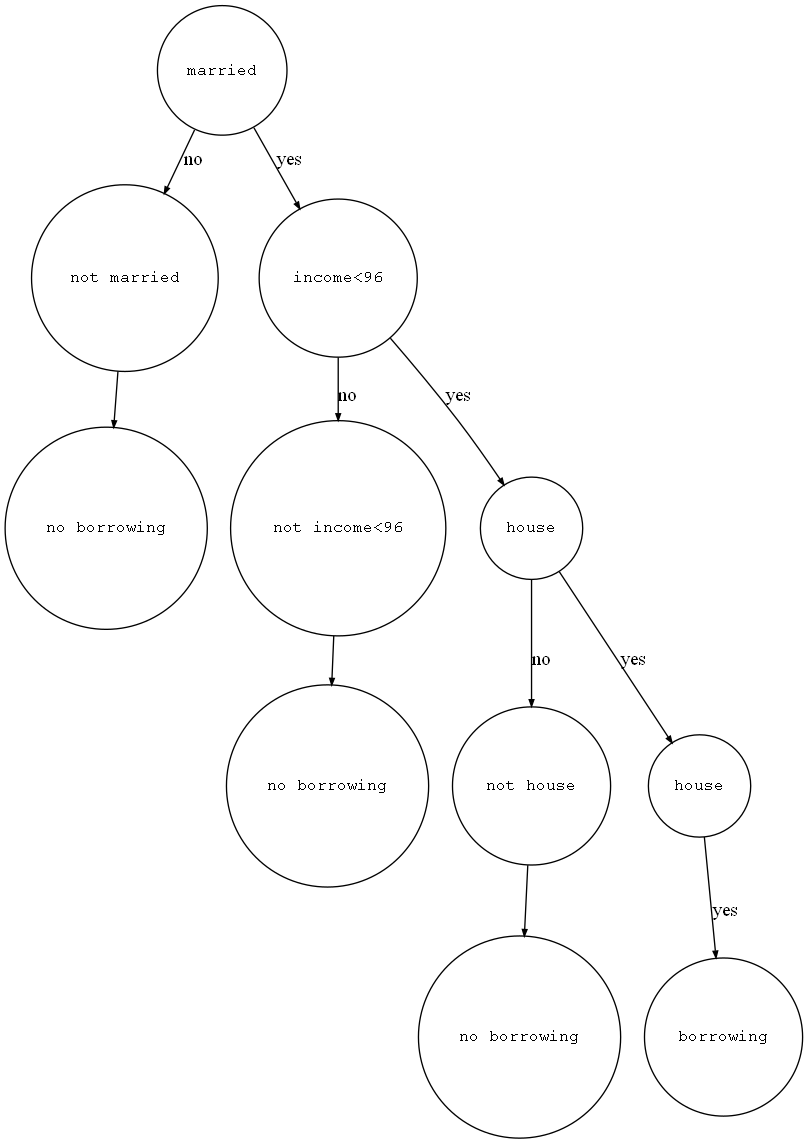
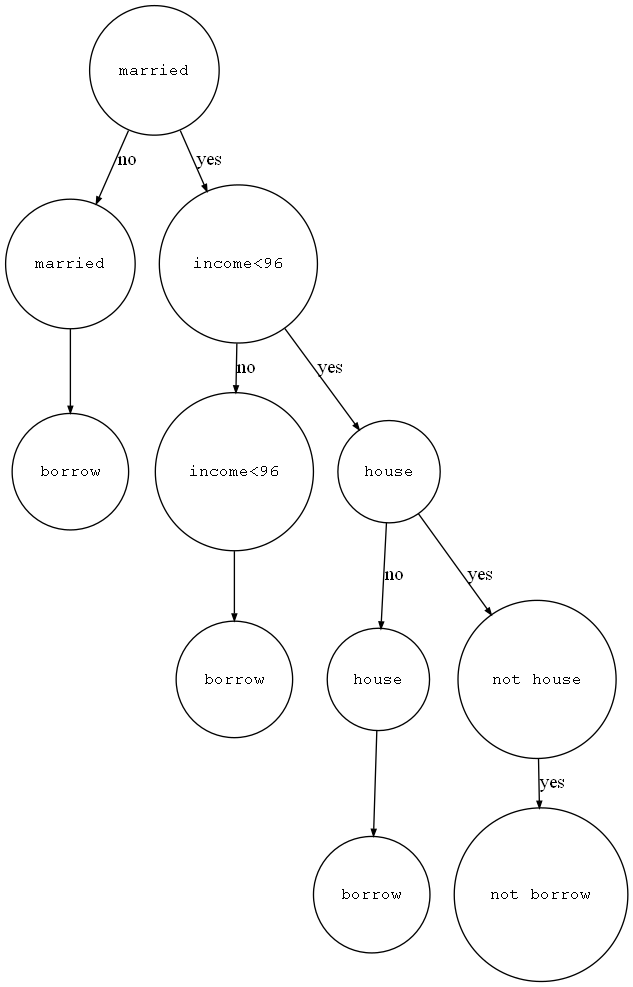
add: descriptions in readme for homework1 and fix a bug from picture

diff --git a/homework-1/draw.py b/homework-1/draw.py
@@ -47,18 +47,18 @@ def build_tree(data,indexes):
             keys[index]+=f'<{income_shreshold}'
         
         dot_body+=f"  node{node_id} [label=\"{keys[index]}\"]\n"
-        dot_body+=f"  node{node_id+1} [label=\"not {keys[index]}\"]\n"
-        dot_body+=f"  node{node_id+3} [label=\"{keys[index]}\"]\n"
+        dot_body+=f"  node{node_id+1} [label=\"{keys[index]}\"]\n"
+        dot_body+=f"  node{node_id+3} [label=\"not {keys[index]}\"]\n"
         dot_body+=f"  node{node_id} -> node{node_id+1} [label= \"no\"]\n"
         dot_body+=f"  node{node_id} -> node{node_id+3} [label= \"yes\"]\n"
-        dot_body+=f"  node{node_id+2} [label=\"no borrowing\"]\n"
+        dot_body+=f"  node{node_id+2} [label=\"borrow\"]\n"
         dot_body+=f'  node{node_id+1} -> node{node_id+2} \n'
     
         node_id+=3
         values.remove(min_value)
         keys.remove(keys[index])
         
-    dot_body+=f' node{node_id+1} [label="borrowing"]\n'
+    dot_body+=f' node{node_id+1} [label="not borrow"]\n'
     dot_body+=f' node{node_id} -> node{node_id+1} [label= "yes"]\n'
     return [dot_body]
 

diff --git a/homework-1/main.py b/homework-1/main.py
@@ -140,6 +140,7 @@ def income_index(args,data,label,id=2):
             if entropy_index(result,label) < min_index:
                 min_index = entropy_index(result,label)
                 finial_income = income
+        #print(income,min_index)
     # print(finial_income)
     # print(min_index)
     return [finial_income,min_index]
@@ -166,7 +167,7 @@ def main(args):
     
     for id,key in enumerate(tags.keys()):
         indexes[key] = tags[key](args,data,label,id)
-    #print(indexes)
+    print(indexes)
             
     if args.draw:
         if args.gini:

diff --git a/homework-1/README.md b/homework-1/README.md
@@ -2,6 +2,8 @@
 
 > [决策树](https://www.bilibili.com/video/BV1T7411b7DG)
 >
+> [知乎好文-决策树](https://zhuanlan.zhihu.com/p/30059442)
+>
 > 基础数据来自于视频例子,但是作者计算的gini数据错误,house的gini是0.34285,income的全局最优在96k,gini=0.3.
 
 假设我们的数据如下(数据保存在`data.txt`),我们如何构建一个决策树使得对于一个用户可以判断其是否会拖延贷款?
@@ -18,6 +20,37 @@
 |8|否|单身|85k|是|
 |9|否|已婚|75k|否|
 |10|否|单身|90k|是|
+
+决策树是用于解决分类问题的一种算法.首先针对决策树的属性选择有两种度量方式,熵和基尼系数,其值越低代表差异越大,区分效果越好
+
+$Entropy = -\sum\limits_{i=0}^nP(i)log_2P(i)$
+
+$Gini = 1-\sum\limits_{i=0}^nP(i)^2$
+
+对于是否有房,这是一个二元属性.只有是/否两种类型.我们可以根据是/不是进行划分,划分之后再根据已知的标签(是否拖欠贷款)划分
+
+- 有房者: 3/10 [id:1 4 7]
+  - 拖欠: 0/3
+  - 不拖欠: 3/3 [id: 1 4 7]
+- 无房者: 7/10
+  - 拖欠: 3/7 [id: 5 8 10]
+  - 不拖欠: 4/7 [id: 2 3 6 9]
+
+由此计算出的 Gini 系数为
+
+$Gini_{有房者} = 1-[0+1] = 0$
+
+$Gini_{无房者} = 1-[\frac{3}{7}^2+\frac{4}{7}^2] = \frac{24}{49}$
+
+可以得到对于有房者的Gini系数为0,我们可以给他一个**不会拖欠贷款**的标签.
+
+$Gini_{加权} = \frac{3}{10}*Gini_{有房者}+\frac{7}{10}*Gini_{无房者} = \frac{12}{35} \approx 0.343$
+
+而对于婚姻情况是一个多元属性,我们可以采用 已婚/单身/离异 划分三种,也可以划分为 已婚/单身+离异, 对于该数据来说结果的差异不大,计算方法相同.
+
+收入是一个序列属性,我们需要根据一个阈值进行划分,从最低收入到最高收入逐个选取阈值,计算 Gini 系数,最后选择最小的哪个(结果是96k)
+
+最后再根据所得的三个属性的加权基尼系数最小的选择根节点(married),最后得到的决策树如下图所示
 
 ## Use
 
@@ -49,6 +82,16 @@ python main.py --gini --draw
 ## shortcoming
 
 为了迅速完成作业我没有使用一个通用性的决策树生成模型,也就是说该模型仅针对我的数据是可以正确构建的,如果数据类型改变那么这个代码就完全不可用,通用性不够强.
+
+一个通用性的决策树模型我会在作业二中构建
+
+## introspection
+
+这是一个二叉决策树,而且刚好划分出的分支的另一侧可以直接确定标签,并没有任何问题.
+
+但如果是依然存在不同类的标签呢?比如已婚者也拖欠了贷款,这样的例子不就会产生错误标签了么?
+
+如果为了准确性要更细分下去的话怕不是变成一个很深的多叉树,相当于最后还是做一个无监督的聚类? 给我的感觉是做一些简单的分类任务还是可以的,如果数据集很大,数据维度很高这种算法不见得效果会很好.
 
 ---
 

diff --git a/README.md b/README.md
@@ -6,4 +6,10 @@
 - 本仓库包含且仅包含代码部分,不包含其他部分作业
 - 采用MIT协议,以供学习交流
 
-## [GINI和Entropy在决策树中的使用](homework-1/README.md)
+本文 Github 地址: https://github.com/luzhixing12345/data-science-introduction
+
+## 第一次作业
+
+- [GINI和Entropy在决策树中的使用](homework-1/README.md)
+
+## 第二次作业
